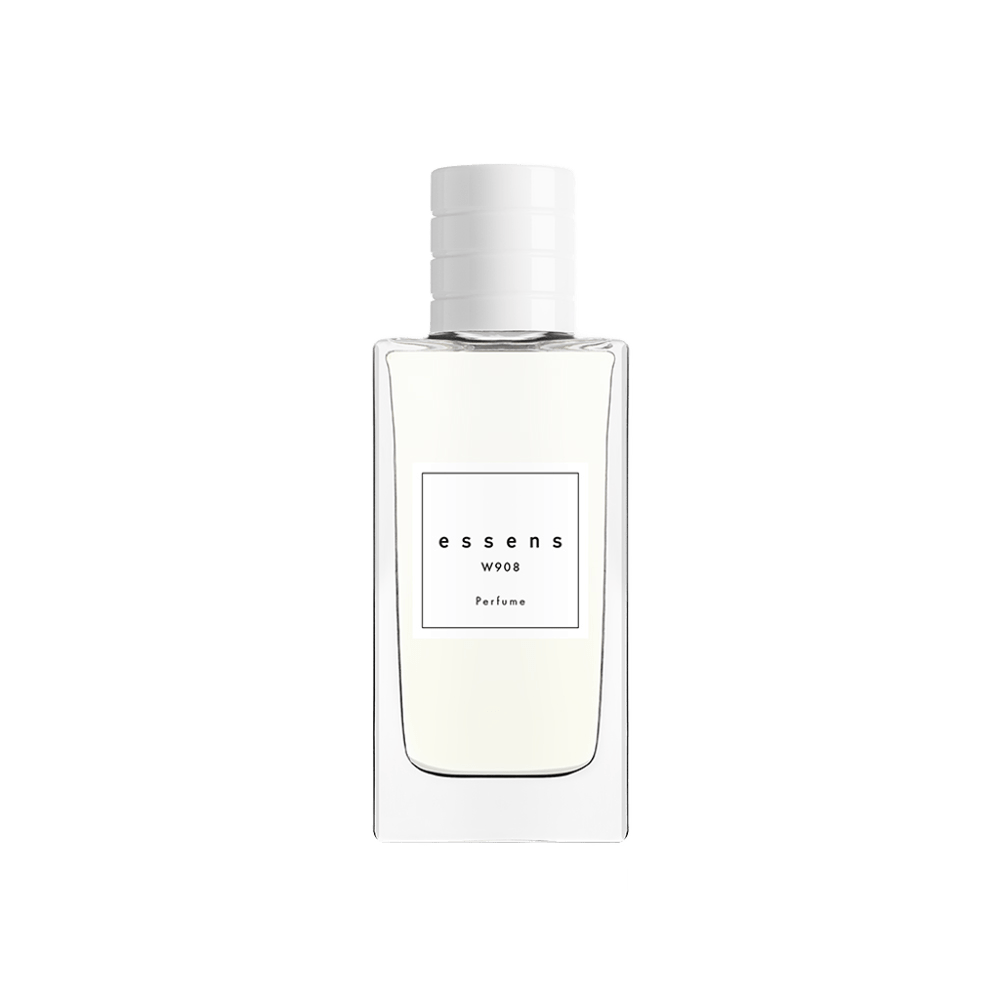
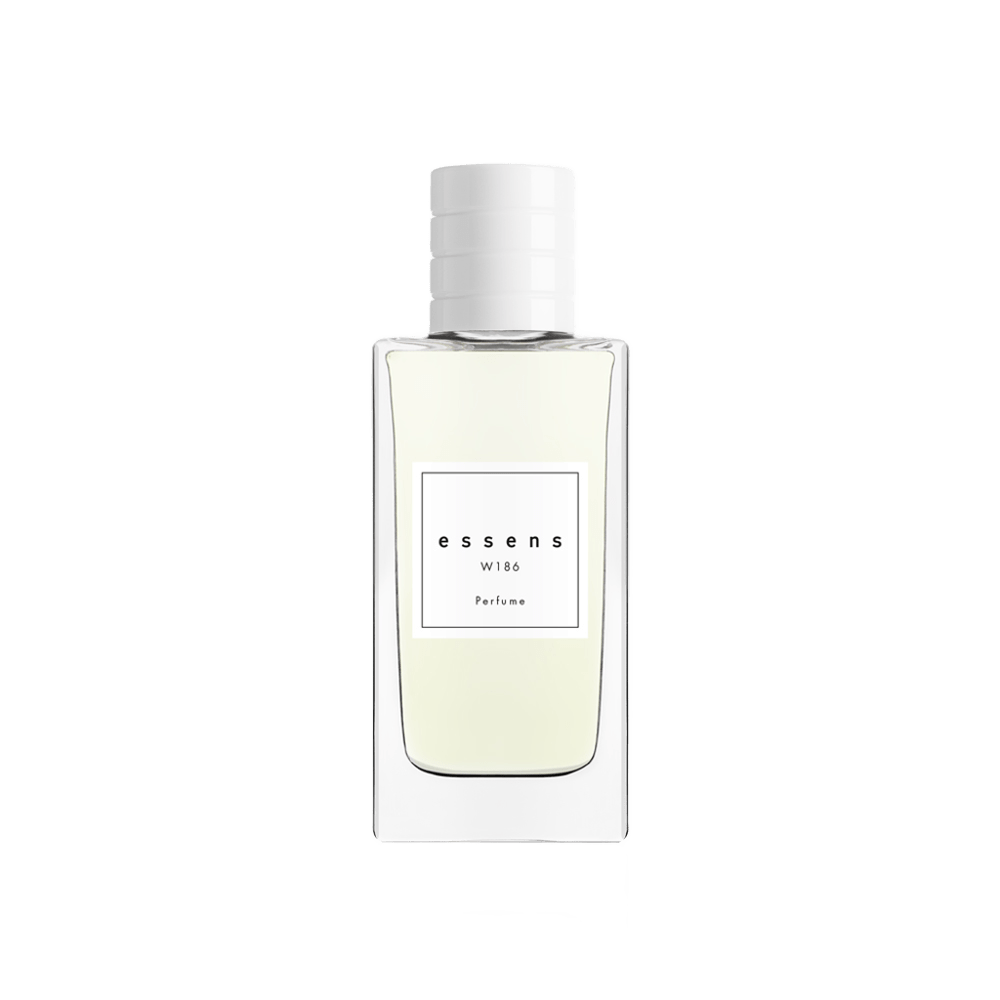
7

diff --git a/styles/headerST.css b/styles/headerST.css
@@ -19,6 +19,7 @@ header {
         radial-gradient(circle at 88% 28%, rgba(143, 228, 235, 0.42), transparent 34%),
         linear-gradient(135deg, #fbfffd 0%, #eefbf8 42%, #fff7f8 100%);
     isolation: isolate;
+    transition: background 0.56s ease;
 }
 
 header::before,
@@ -414,6 +415,76 @@ header::after {
         linear-gradient(145deg, rgba(143, 228, 235, 0.56), rgba(246, 216, 222, 0.36));
     box-shadow: inset 0 0 60px rgba(255, 255, 255, 0.68), 0 34px 90px rgba(73, 159, 162, 0.16);
     animation: liquidAura 7s ease-in-out infinite;
+    transition: background 0.56s ease, box-shadow 0.56s ease;
+}
+
+header.theme-new {
+    background:
+        radial-gradient(circle at 12% 18%, rgba(220, 247, 232, 0.66), transparent 30%),
+        radial-gradient(circle at 88% 28%, rgba(169, 235, 212, 0.42), transparent 34%),
+        linear-gradient(135deg, #fbfffd 0%, #edf9f0 46%, #f7fff8 100%);
+}
+
+header.theme-new .imageHeader::before {
+    background:
+        radial-gradient(circle at 42% 28%, rgba(255, 255, 255, 0.94), transparent 17%),
+        url("../assets/backroundHead.svg") center / 112% 112% no-repeat,
+        linear-gradient(145deg, rgba(185, 238, 203, 0.68), rgba(229, 251, 234, 0.52));
+    box-shadow: inset 0 0 64px rgba(255, 255, 255, 0.72), 0 34px 90px rgba(77, 151, 103, 0.14);
+}
+
+header.theme-luxury {
+    background:
+        radial-gradient(circle at 12% 18%, rgba(255, 224, 151, 0.34), transparent 30%),
+        radial-gradient(circle at 88% 28%, rgba(224, 145, 74, 0.2), transparent 34%),
+        radial-gradient(circle at 58% 84%, rgba(255, 240, 198, 0.28), transparent 28%),
+        linear-gradient(135deg, #fffdf9 0%, #fff6e9 42%, #fff0de 100%);
+}
+
+header.theme-luxury::before {
+    background: linear-gradient(145deg, rgba(255, 247, 226, 0.86), rgba(236, 178, 104, 0.2));
+    box-shadow: inset 0 0 62px rgba(255, 255, 255, 0.8), 0 30px 84px rgba(170, 105, 52, 0.13);
+}
+
+header.theme-luxury::after {
+    background-image:
+        linear-gradient(115deg, transparent 0 42%, rgba(255, 248, 226, 0.38) 45%, transparent 48%),
+        radial-gradient(circle at 30% 22%, rgba(255, 214, 133, 0.13), transparent 18%),
+        radial-gradient(circle at 82% 70%, rgba(207, 122, 55, 0.1), transparent 24%),
+        radial-gradient(circle at 48% 82%, rgba(248, 195, 102, 0.17), transparent 24%);
+}
+
+header.theme-luxury .imageHeader::before {
+    background:
+        radial-gradient(circle at 42% 28%, rgba(255, 255, 255, 0.94), transparent 17%),
+        url("../assets/backroundHead.svg") center / 112% 112% no-repeat,
+        radial-gradient(circle at 64% 66%, rgba(224, 147, 63, 0.22), transparent 34%),
+        linear-gradient(145deg, rgba(246, 202, 132, 0.45), rgba(255, 239, 210, 0.42));
+    box-shadow: inset 0 0 66px rgba(255, 255, 255, 0.7), 0 36px 94px rgba(165, 103, 47, 0.13);
+}
+
+header.theme-luxury .head,
+header.theme-luxury .navigation,
+header.theme-luxury .lang-dropdown-toggle,
+header.theme-luxury .menuBTN,
+header.theme-luxury .imageHeaderDots,
+header.theme-luxury .imageHeaderNav {
+    border-color: rgba(255, 238, 199, 0.78);
+    background: rgba(255, 248, 232, 0.54);
+    box-shadow: 0 18px 48px rgba(170, 91, 25, 0.13);
+}
+
+header.theme-luxury .eyebrowHead {
+    border-color: rgba(218, 132, 35, 0.34);
+    background: rgba(255, 246, 222, 0.62);
+    color: #9a5a17;
+    box-shadow: 0 12px 26px rgba(218, 132, 35, 0.12);
+}
+
+header.theme-luxury .heroAction {
+    border-color: rgba(255, 217, 139, 0.5);
+    background: linear-gradient(135deg, #4a2712, #b66a23);
+    box-shadow: 0 18px 36px rgba(182, 106, 35, 0.24);
 }
 
 .imageHeader::after {
@@ -443,9 +514,28 @@ header::after {
     place-items: center;
 }
 
+.imageHeaderSlider::before {
+    content: "";
+    position: absolute;
+    inset: 2%;
+    z-index: 0;
+    background: rgba(175, 226, 202, 0.32);
+    mask: url("../assets/backroundHead.svg") center / contain no-repeat;
+    -webkit-mask: url("../assets/backroundHead.svg") center / contain no-repeat;
+    opacity: 0.8;
+    pointer-events: none;
+    transition: background 0.56s ease, opacity 0.56s ease;
+}
+
+header.theme-luxury .imageHeaderSlider::before {
+    background: linear-gradient(145deg, rgba(250, 205, 130, 0.42), rgba(209, 125, 58, 0.2));
+    opacity: 0.82;
+}
+
 .imageHeaderSlide {
     position: absolute;
     inset: 0;
+    z-index: 1;
     display: grid;
     place-items: center;
     opacity: 0;

diff --git a/scripts/collectionSlider.js b/scripts/collectionSlider.js
@@ -5,6 +5,8 @@ document.addEventListener('DOMContentLoaded', () => {
         const dots = Array.from(headerSlider.querySelectorAll('.imageHeaderDot'));
         const prev = headerSlider.querySelector('.imageHeaderPrev');
         const next = headerSlider.querySelector('.imageHeaderNext');
+        const header = document.querySelector('header');
+        const themeClasses = ['theme-new', 'theme-classic', 'theme-luxury'];
         let currentIndex = 0;
         let timerId;
 
@@ -19,6 +21,11 @@ document.addEventListener('DOMContentLoaded', () => {
                 dot.classList.toggle('active', dotIndex === currentIndex);
                 dot.setAttribute('aria-current', dotIndex === currentIndex ? 'true' : 'false');
             });
+
+            if (header) {
+                header.classList.remove(...themeClasses);
+                header.classList.add(themeClasses[currentIndex]);
+            }
         }
 
         function startAutoPlay() {

diff --git a/index.html b/index.html
@@ -10,7 +10,7 @@
     <title>DinNur</title>
 </head>
 <body>
-    <header>
+    <header class="theme-new">
         <div class="head">
             <div class="logo">
                 <img width="80" height="60" src="assets/LogoDin.webp" alt="DinNur">